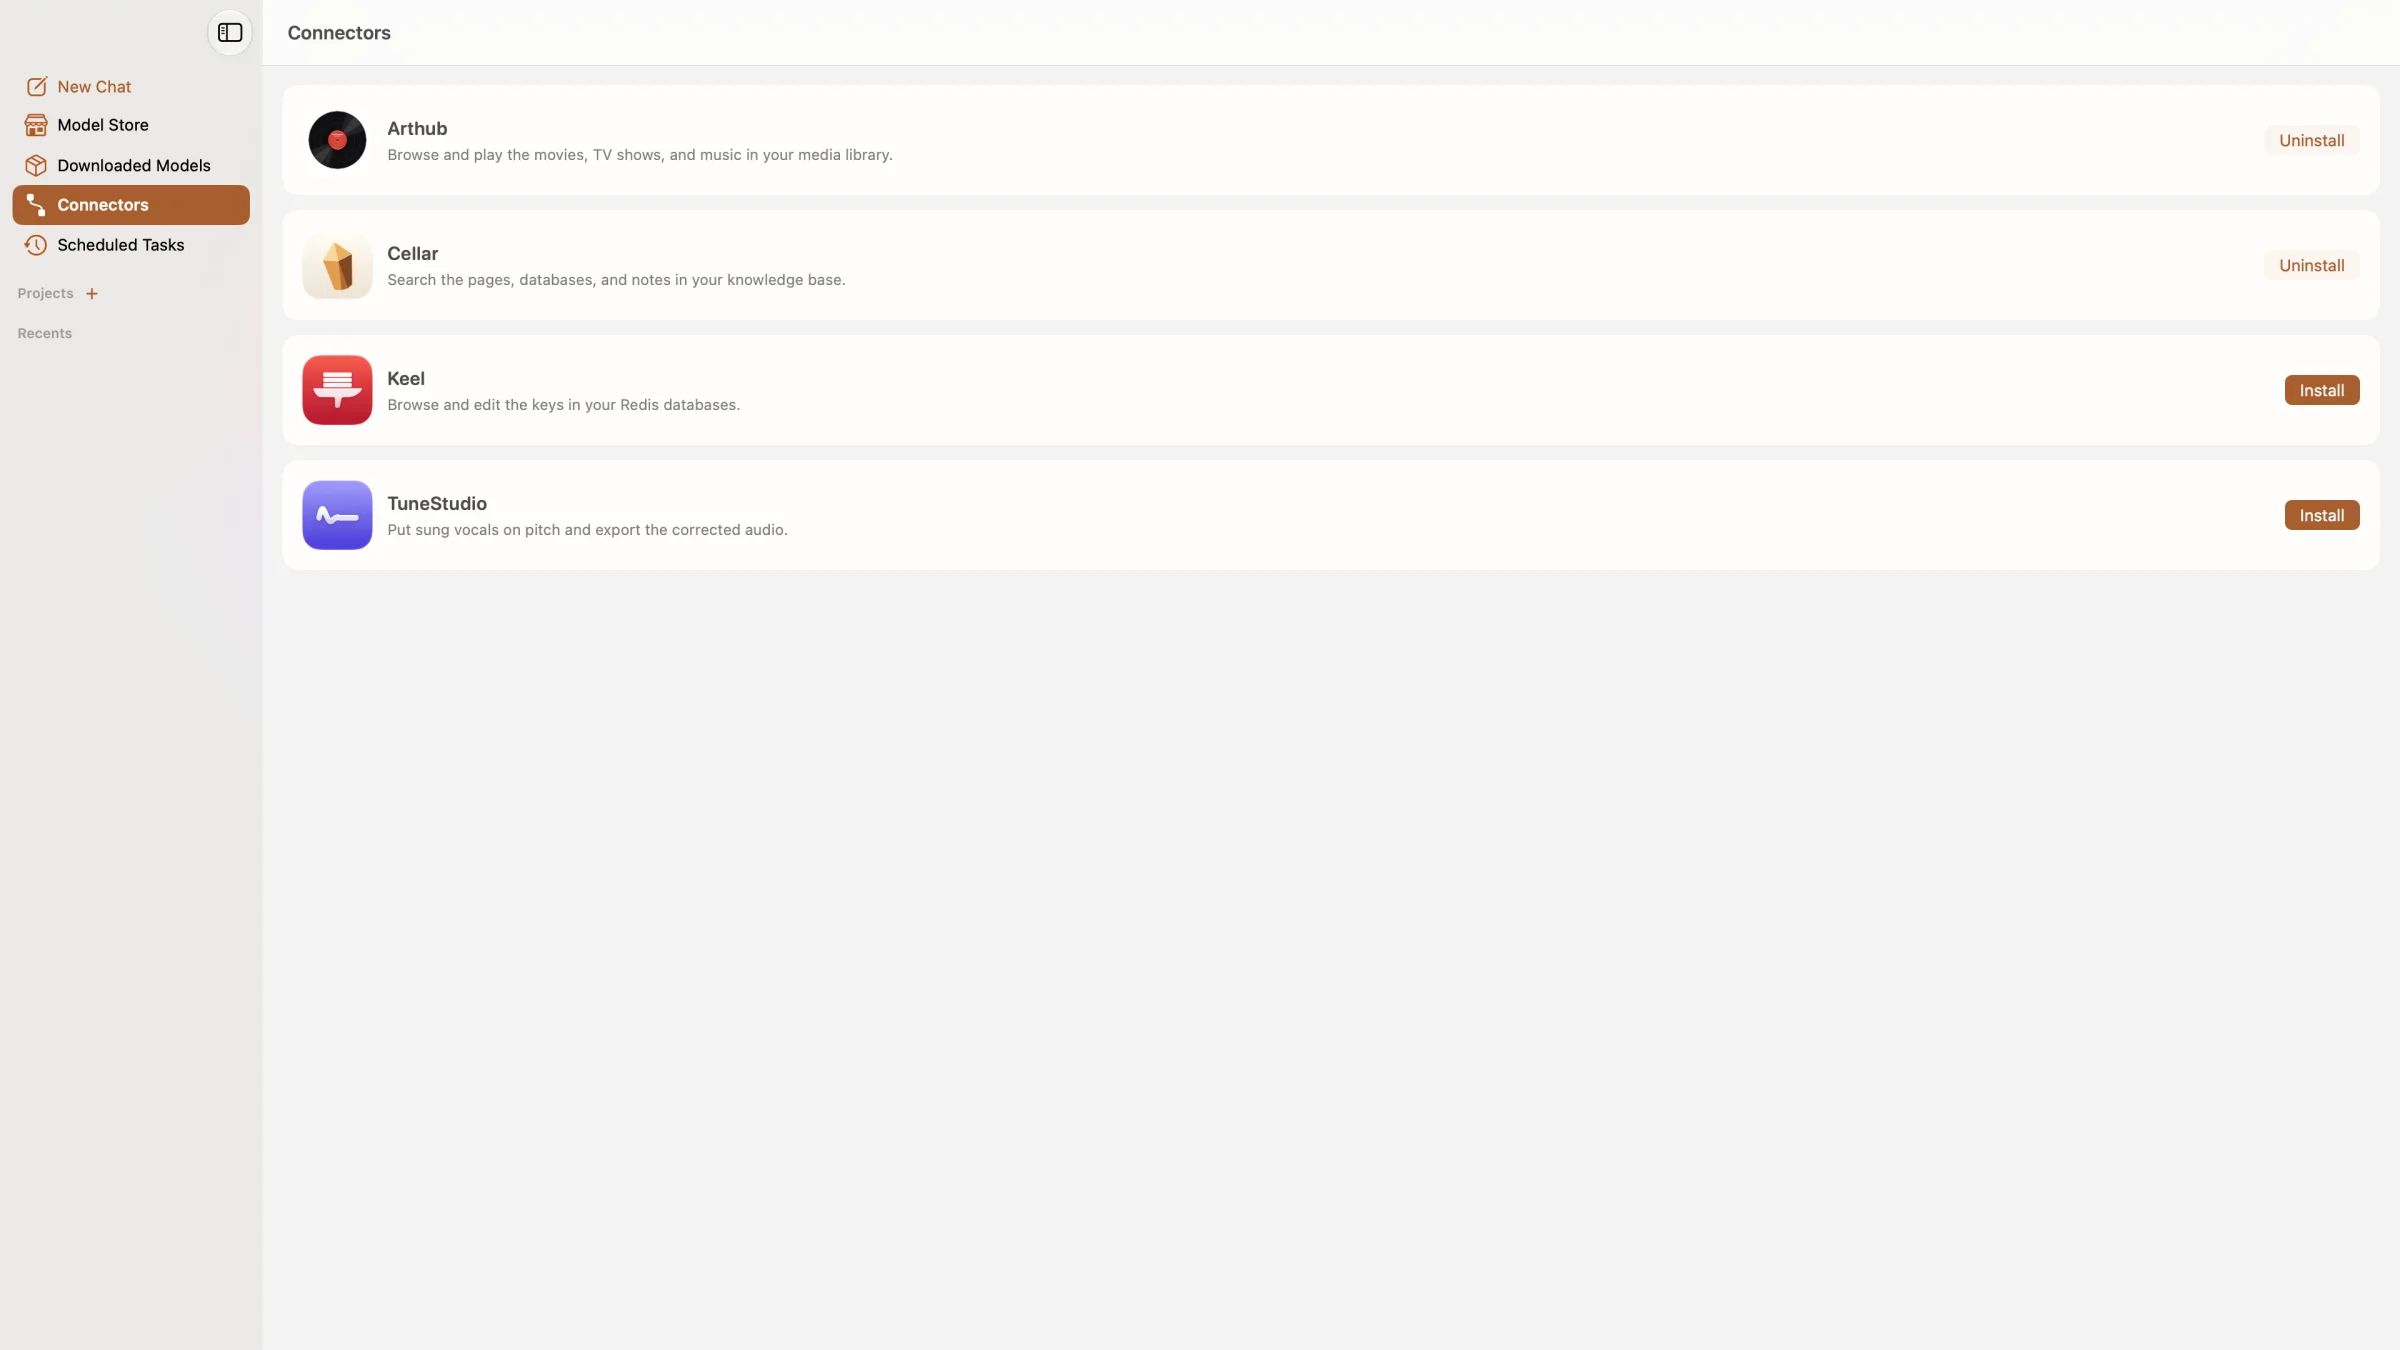
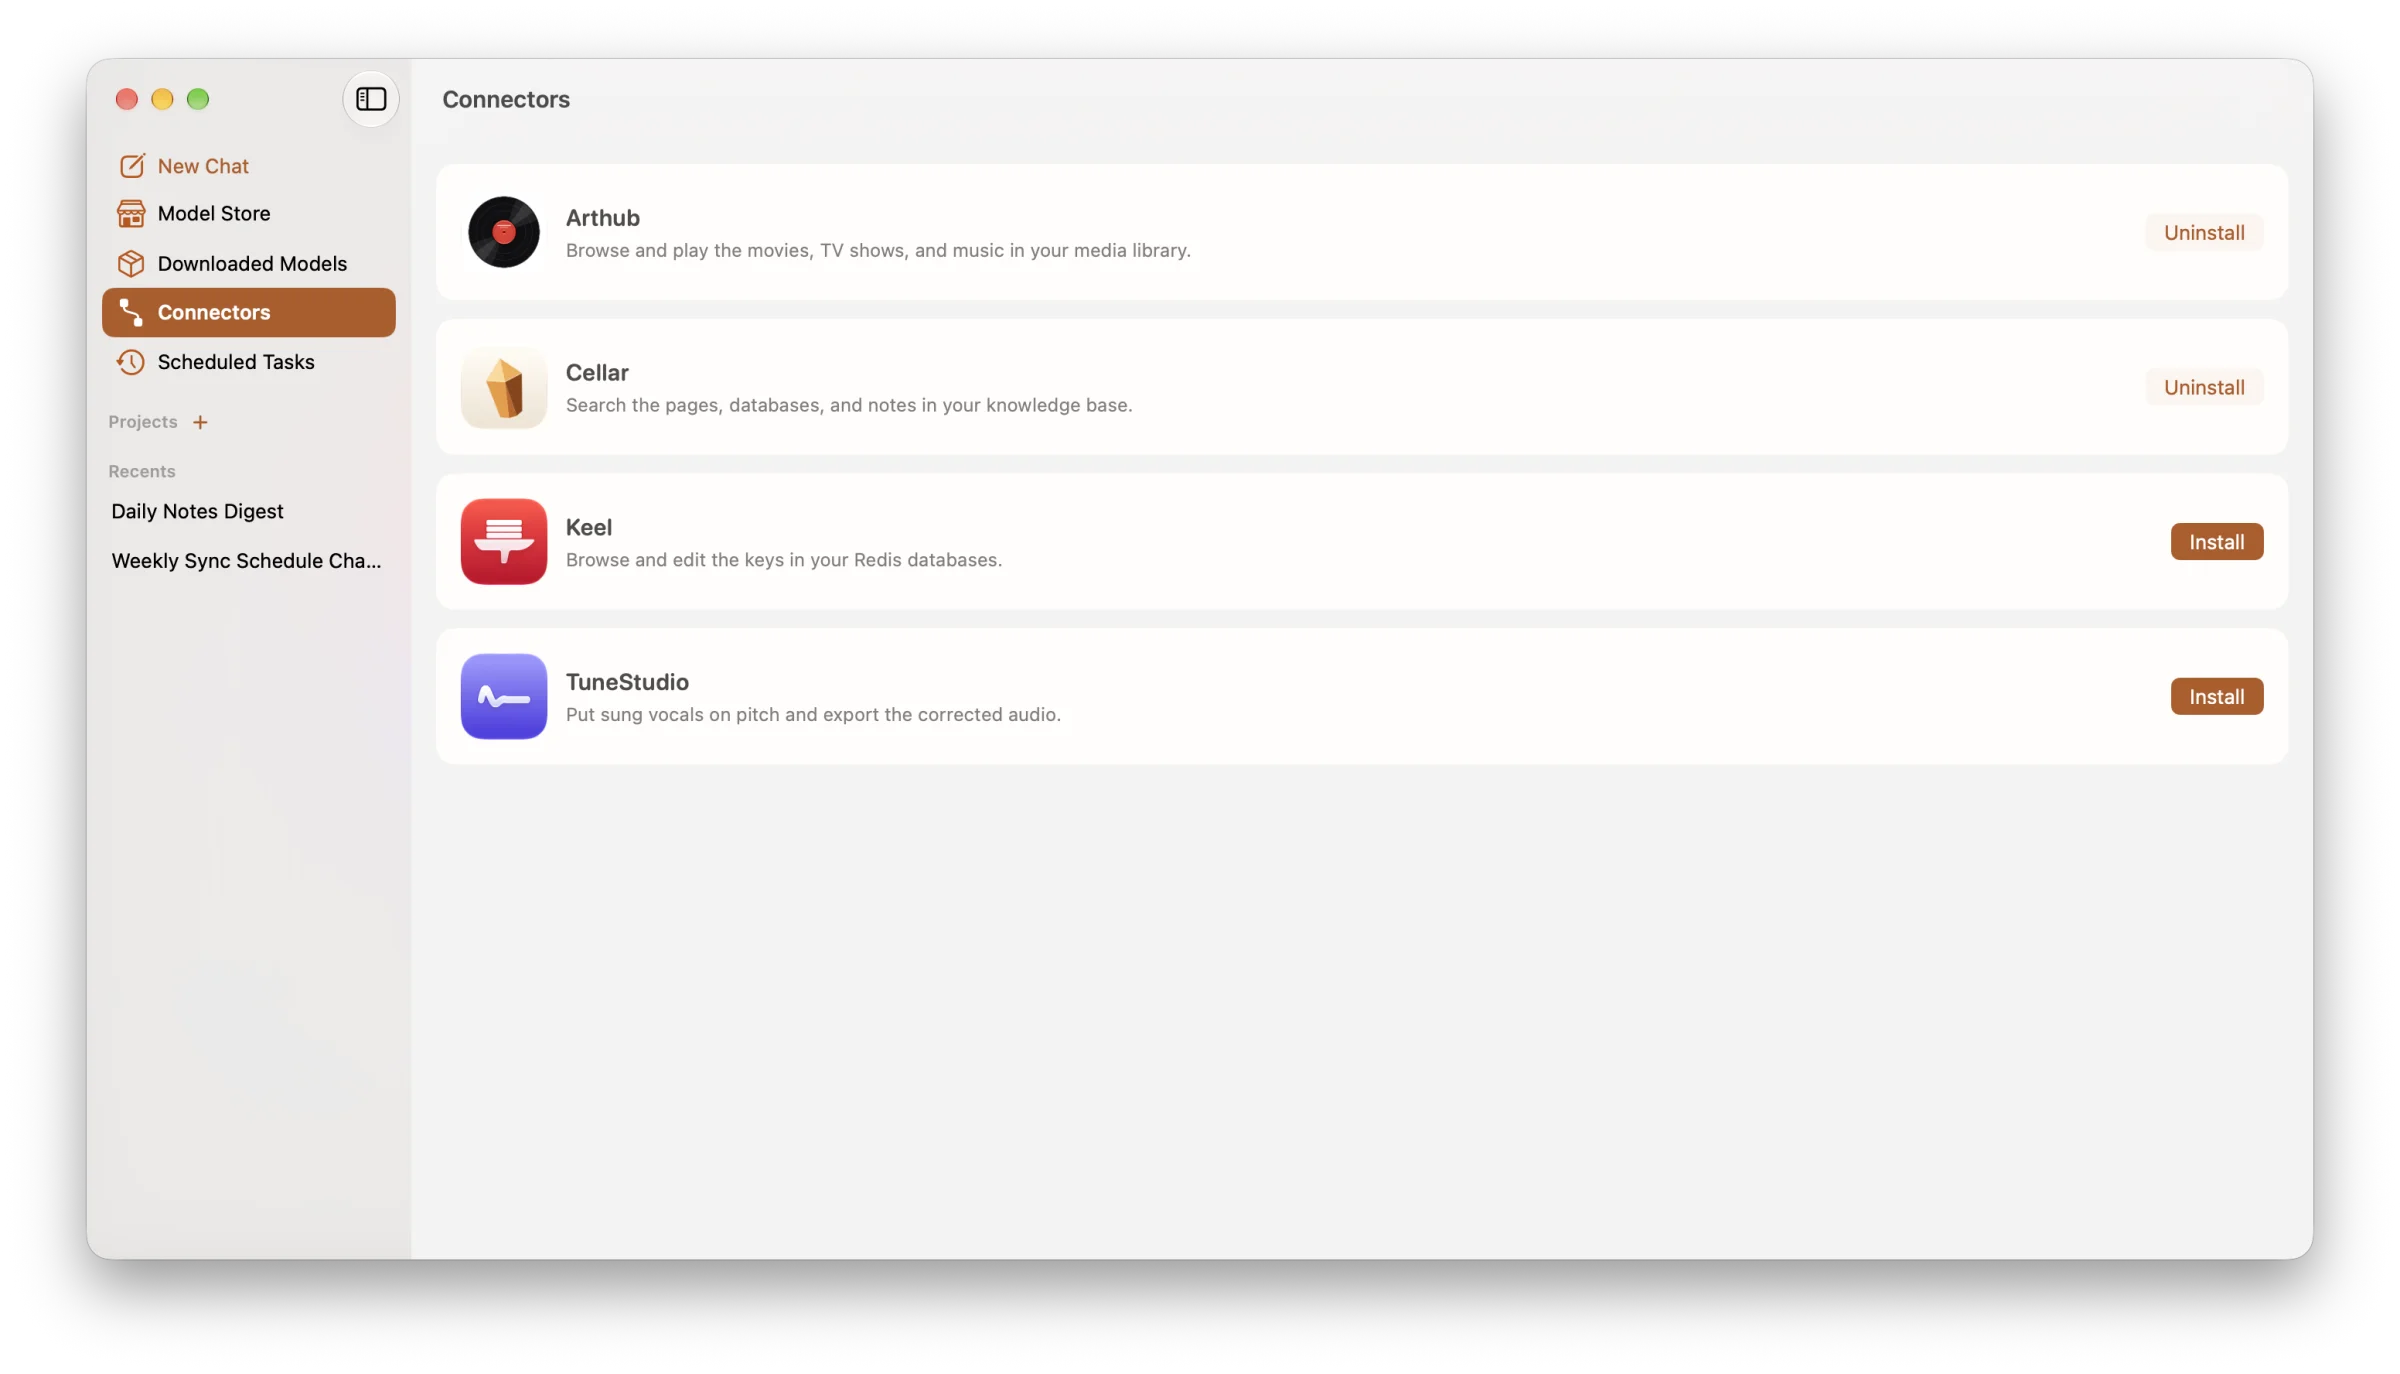
Use the latest ModelCraft screenshots
Replace the chat, Model Store, Connectors and Scheduled Tasks images with
the new window captures, and drop the outdated Projects screenshot along
with its section.

diff --git a/app/routes/modelcraft.tsx b/app/routes/modelcraft.tsx
@@ -30,7 +30,7 @@ export default function ModelCraft() {
                 action={<DownloadButton repo="zhang-hongshen/ModelCraft" />}
                 note={t("modelcraft.apple_silicon_m1_or_later")}
             >
-                <Shot className="mt-16" light="/assets/modelcraft/chat_light.webp" dark="/assets/modelcraft/chat_dark.webp" alt="ModelCraft conversation" width={2400} height={1372} eager />
+                <Shot className="mt-16" light="/assets/modelcraft/chat_light.webp" dark="/assets/modelcraft/chat_dark.webp" alt="ModelCraft conversation" width={2400} height={1374} eager />
             </Hero>
 
             <Section>
@@ -40,24 +40,13 @@ export default function ModelCraft() {
             </Section>
 
             <Section className="pt-6">
-                <Split>
-                    <div>
-                        <Eyebrow>{t("modelcraft.projects")}</Eyebrow>
-                        <h3>{t("modelcraft.knowledge_always_at_hand")}</h3>
-                        <p>{t("modelcraft.conversations_and_files_are_organized")}</p>
-                    </div>
-                    <Shot light="/assets/modelcraft/project_light.webp" dark="/assets/modelcraft/project_dark.webp" alt="ModelCraft projects" width={2400} height={1372} />
-                </Split>
-            </Section>
-
-            <Section className="pt-0">
                 <Split reverse>
                     <div>
                         <Eyebrow>{t("modelcraft.model_store")}</Eyebrow>
                         <h3>{t("modelcraft.pick_a_model_download_in")}</h3>
                         <p>{t("modelcraft.browse_popular_open_models_downloads")}</p>
                     </div>
-                    <Shot light="/assets/modelcraft/model_store_light.webp" dark="/assets/modelcraft/model_store_dark.webp" alt="ModelCraft Model Store" width={2400} height={1360} />
+                    <Shot light="/assets/modelcraft/model_store_light.webp" dark="/assets/modelcraft/model_store_dark.webp" alt="ModelCraft Model Store" width={2400} height={1374} />
                 </Split>
             </Section>
 
@@ -74,7 +63,7 @@ export default function ModelCraft() {
                             <li>{t("modelcraft.example_cellar")}</li>
                         </ul>
                     </div>
-                    <Shot light="/assets/modelcraft/connectors_light.webp" dark="/assets/modelcraft/connectors_dark.webp" alt="ModelCraft Connectors" width={2400} height={1350} />
+                    <Shot light="/assets/modelcraft/connectors_light.webp" dark="/assets/modelcraft/connectors_dark.webp" alt="ModelCraft Connectors" width={2400} height={1374} />
                 </Split>
             </Section>
 
@@ -85,7 +74,7 @@ export default function ModelCraft() {
                         <h3>{t("modelcraft.runs_on_its_own_schedule")}</h3>
                         <p>{t("modelcraft.give_it_a_prompt_and_a_time")}</p>
                     </div>
-                    <Shot light="/assets/modelcraft/scheduled_tasks_light.webp" dark="/assets/modelcraft/scheduled_tasks_dark.webp" alt="ModelCraft Scheduled Tasks" width={2400} height={1350} />
+                    <Shot light="/assets/modelcraft/scheduled_tasks_light.webp" dark="/assets/modelcraft/scheduled_tasks_dark.webp" alt="ModelCraft Scheduled Tasks" width={2400} height={1374} />
                 </Split>
             </Section>
 
